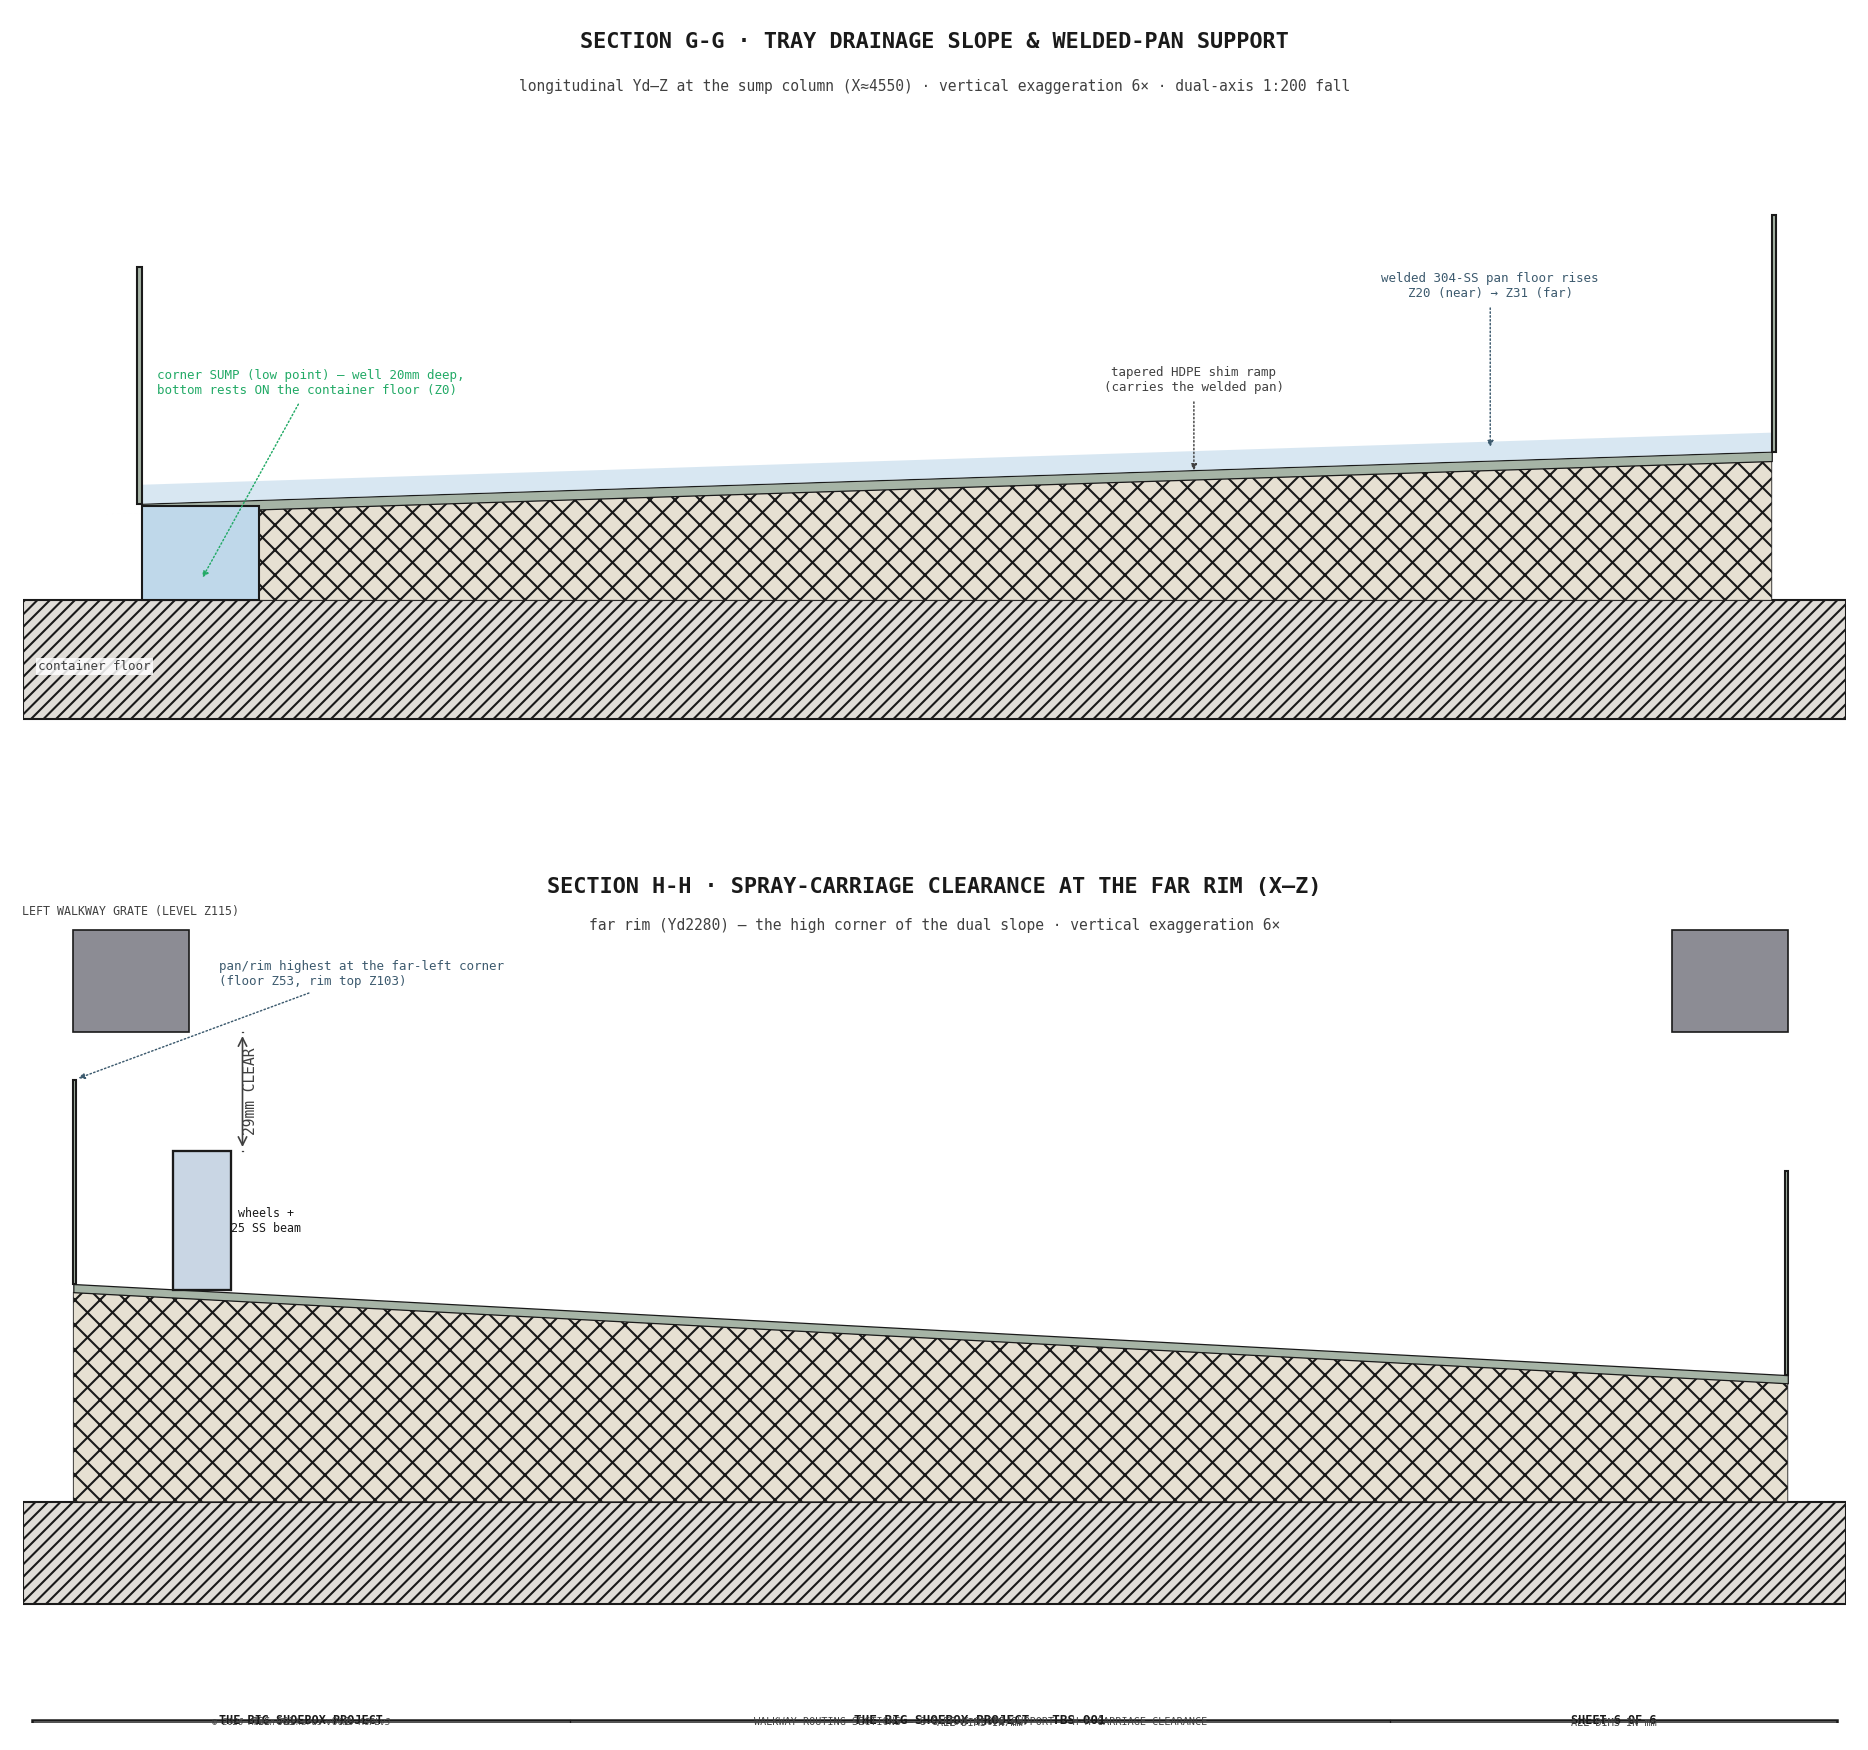
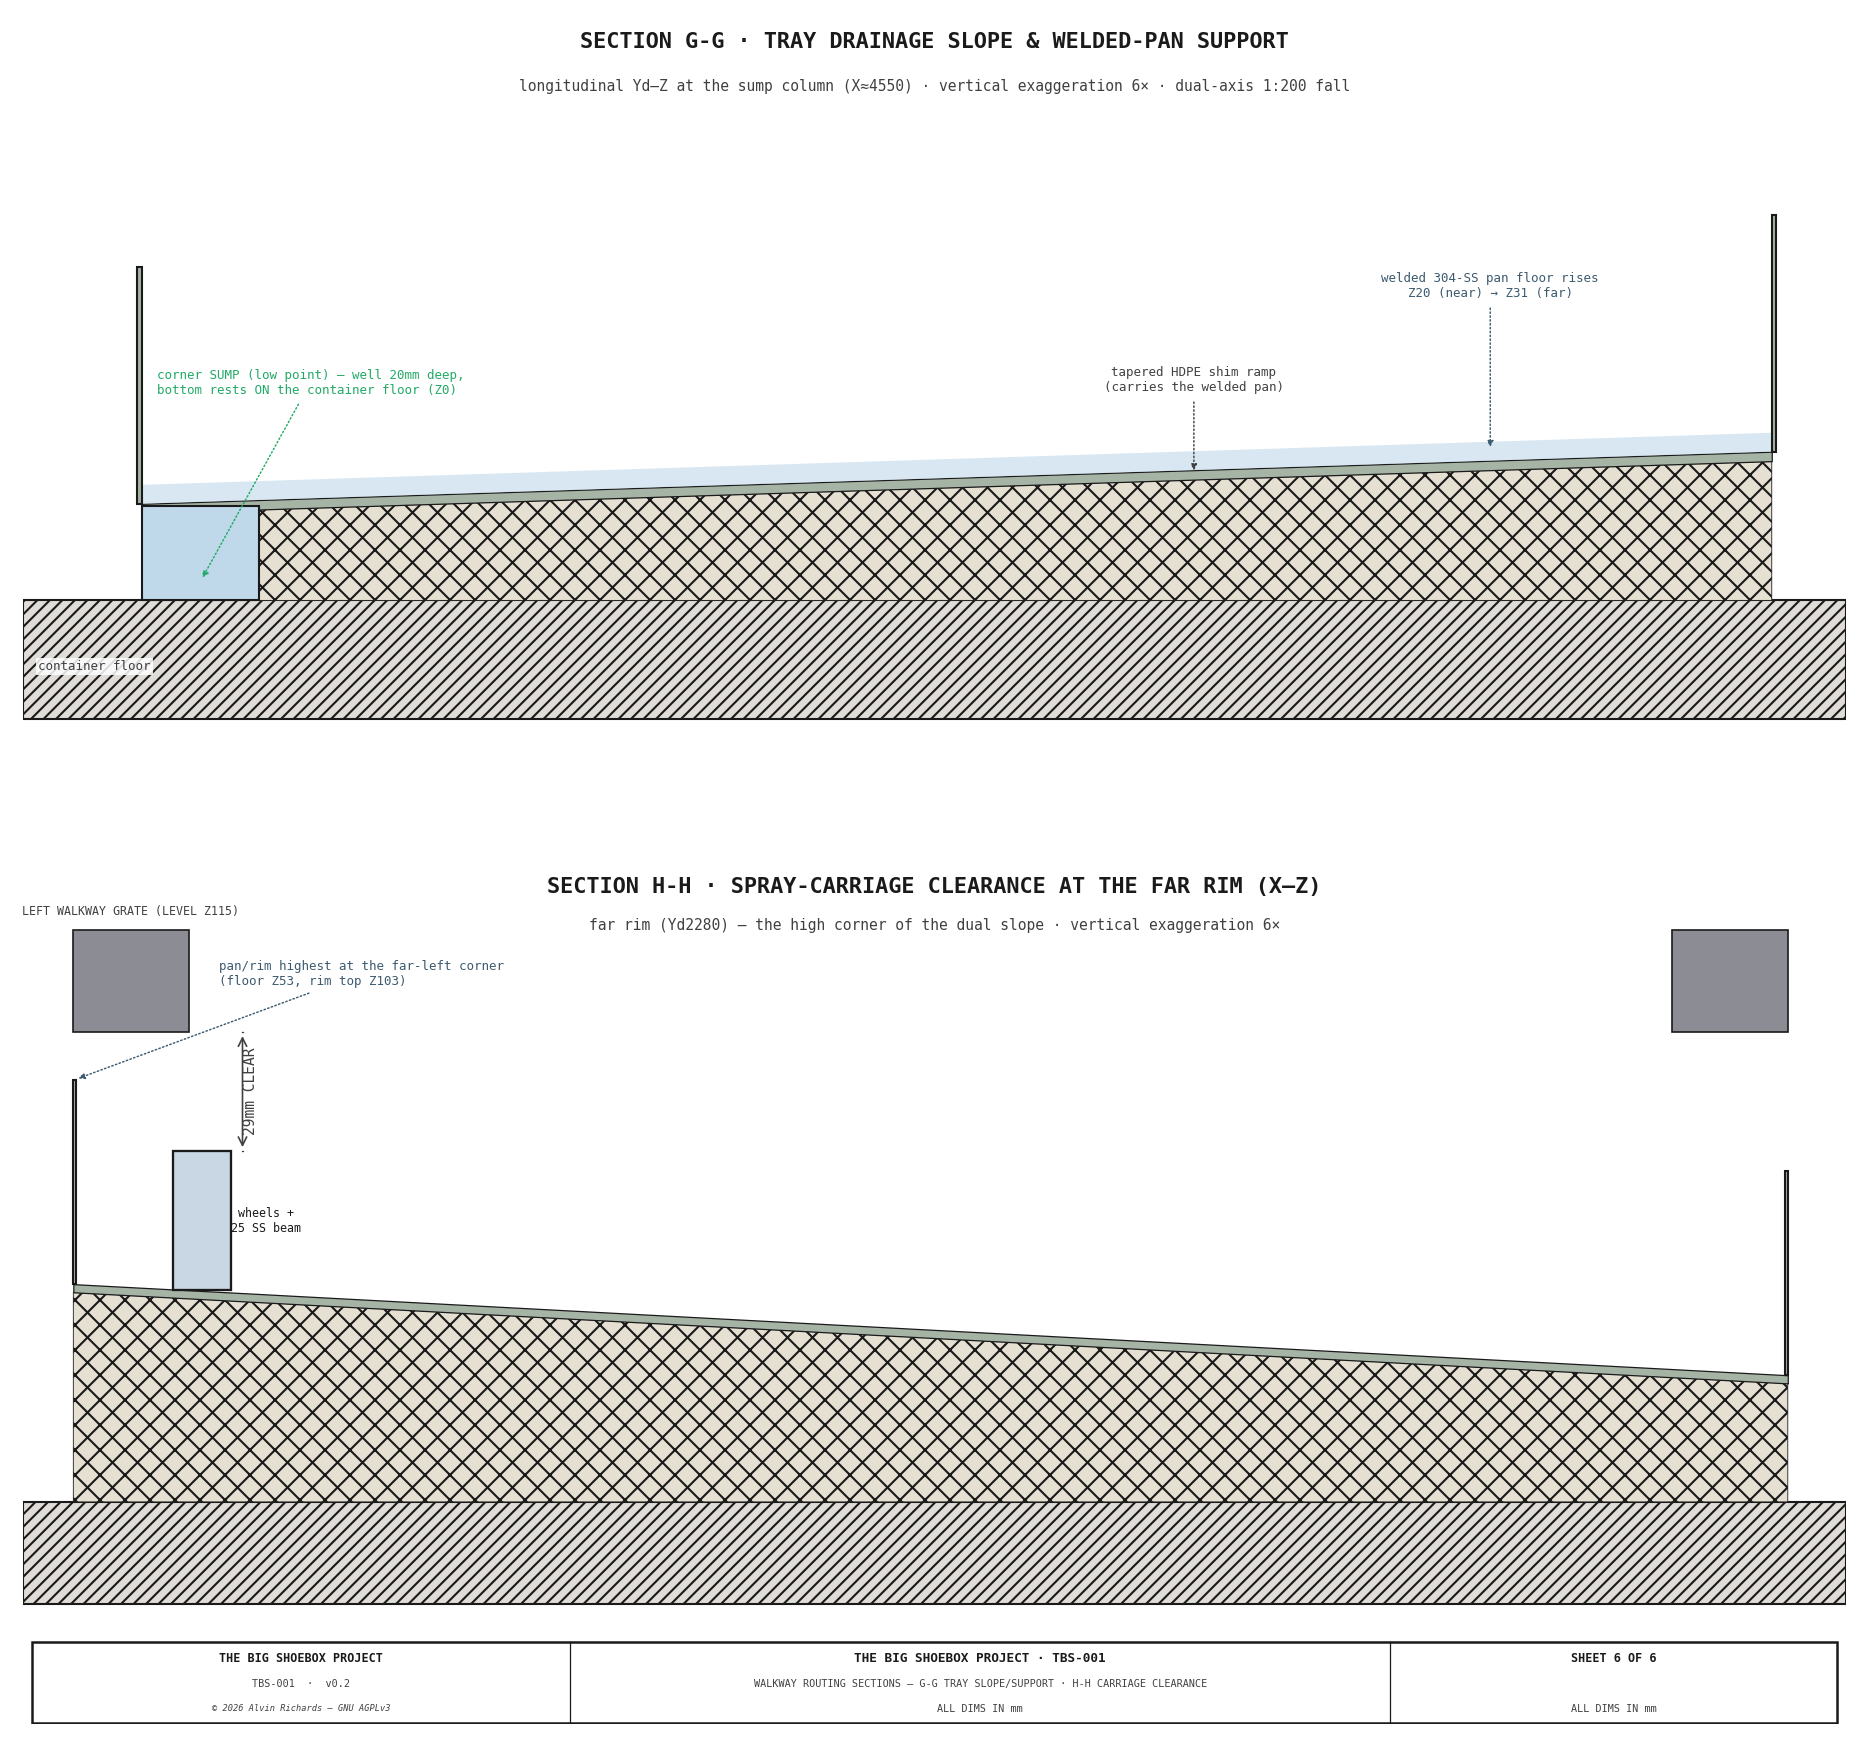
walkway-sections sheet6: fix the collapsed title block
Sheet6 draws its title block into a dedicated thin axes (0.05 fig height), but
title_block()'s `height` is an axes-FRACTION — the default 0.045 made the block
0.045 of an already-thin axes, collapsing all three rows into one illegible
overlapping strip. Pass height=0.9 so the block fills its axes, matching the
~0.45in title block on the other sheets.

diff --git a/src/generators/generate_walkway_sections.py b/src/generators/generate_walkway_sections.py
@@ -671,9 +671,11 @@ def sheet6():
            f"pan/rim highest at the far-left corner\n(floor Z{ttop[0]:.0f}, rim top Z{tray_rim_top_z(PROC_TRAY_X_L, ydc):.0f})",
            color="#3C5A6E", fs=6, ha="left", va="center", arrow_style="-|>", font=FONT)
 
-    axTB = fig.add_axes([0.07, 0.005, 0.90, 0.045])
+    axTB = fig.add_axes([0.07, 0.005, 0.90, 0.05])
     axTB.set_xlim(0, 1); axTB.set_ylim(0, 1); axTB.axis("off")
-    title_block(axTB, "SHEET 6 OF 6",
+    # title_block's `height` is an axes-FRACTION; this is a dedicated thin axes, so fill it
+    # (default 0.045 would be 0.045 of an already-thin axes and collapse the block).
+    title_block(axTB, "SHEET 6 OF 6", height=0.9,
                 drawing_title="THE BIG SHOEBOX PROJECT · TBS-001",
                 subtitle="WALKWAY ROUTING SECTIONS — G-G TRAY SLOPE/SUPPORT · H-H CARRIAGE CLEARANCE")
     out = os.path.join(DIAGRAMS_DIR, "walkway-sections-sheet6.png")
